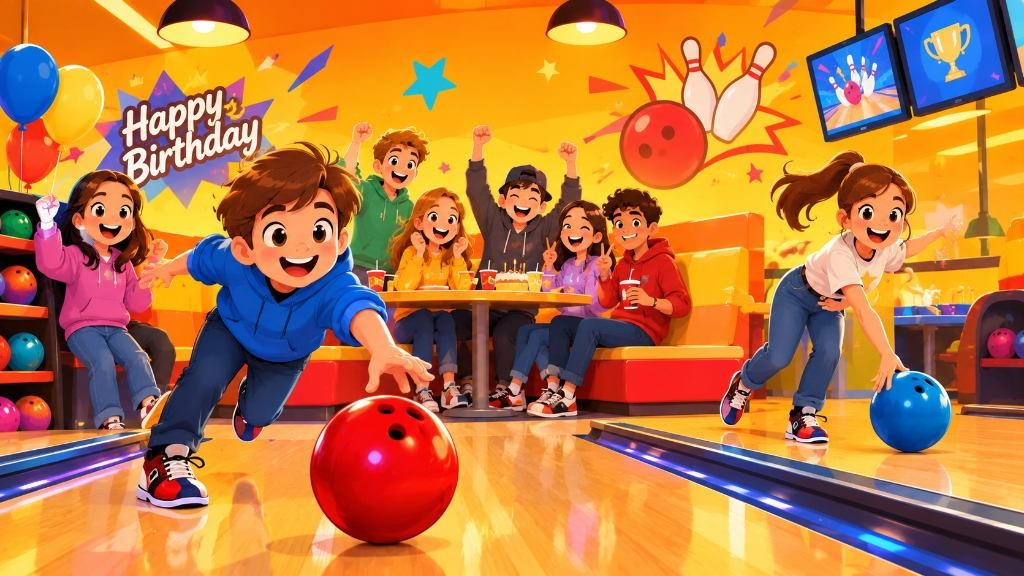
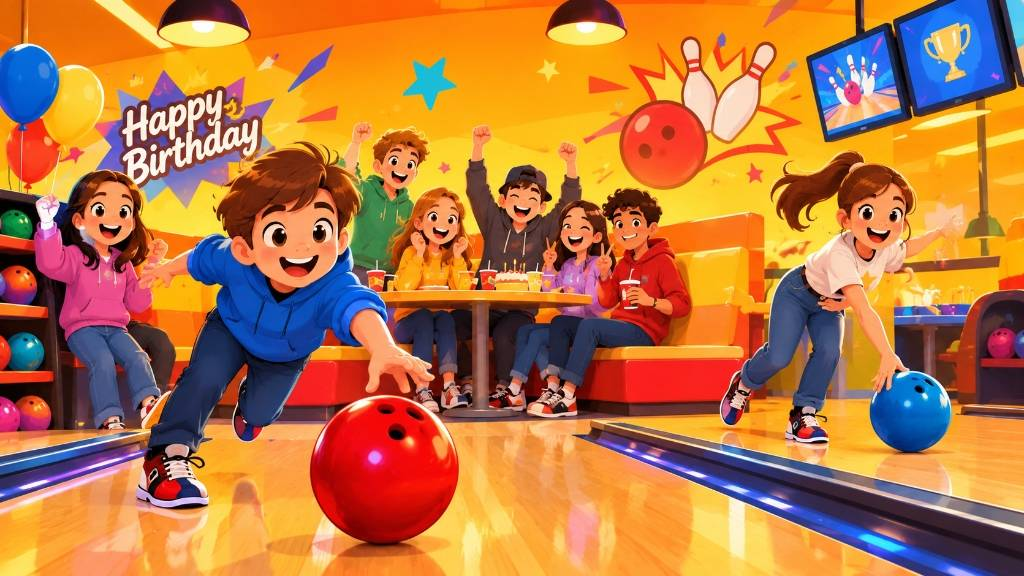
Update page background image

Changed region(s): [[0.7812, 0.7188, 0.8125, 0.75]]

diff --git a/index.html b/index.html
@@ -17,7 +17,7 @@
   <link rel="manifest" href="manifest.json">
   <link rel="apple-touch-icon" href="assets/icon.png">
   <link rel="preload" as="image" href="assets/logo_bowling_web.png">
-  <link rel="stylesheet" href="style.css?v=23.0">
+  <link rel="stylesheet" href="style.css?v=24.0">
   <link
     href="https://fonts.googleapis.com/css2?family=Inter:wght@400;600;800&family=Lobster&family=Stardos+Stencil:wght@400;700&display=swap"
     rel="stylesheet">

diff --git a/style.css b/style.css
@@ -95,7 +95,7 @@ body::before {
   left: 0;
   width: 100%;
   height: 100%;
-  background: url('assets/background_web.jpg?v=3.0') center center / cover no-repeat fixed;
+  background: url('assets/background_web.jpg?v=4.0') center center / cover no-repeat fixed;
   opacity: 0.45;
   z-index: -1;
   pointer-events: none;
